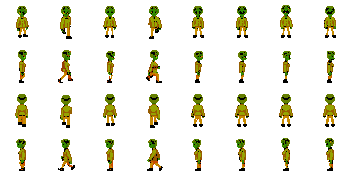
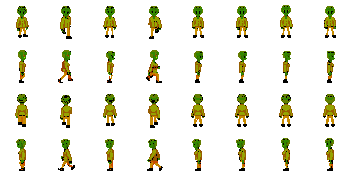
PixelLab test: tidier colour maps (eyes, faces, legs, stray pixels)

diff --git a/art/src/pixellab/README.md b/art/src/pixellab/README.md
@@ -44,3 +44,11 @@ position, `dark_hair_rows`), `base_e` 09ae7578-… (ponytail, green sweater, jea
 slim, grey hair, long navy coat; custom proportions). `PeopleSprites.base_for` picks: tied
 hair → e, long hair → b, curly → d, heavy/beard/bald → c, slim and 180 cm+ → g, women
 otherwise → f, else a. Second account: 36 of 40 used.
+
+## Tidied colour maps (4 October)
+
+Rules may carry a row range (rows from the top of the figure): eyes in the head rows keep
+their colour (they were read as trousers), the blonde body's pale face highlights are skin,
+the tall body's legs below the coat are trousers, the long-haired body's hair stops at the
+shoulders, and the ponytail body's cheeks follow the skin. `_despeckle` gives a lone stray
+pixel its neighbours' group.
